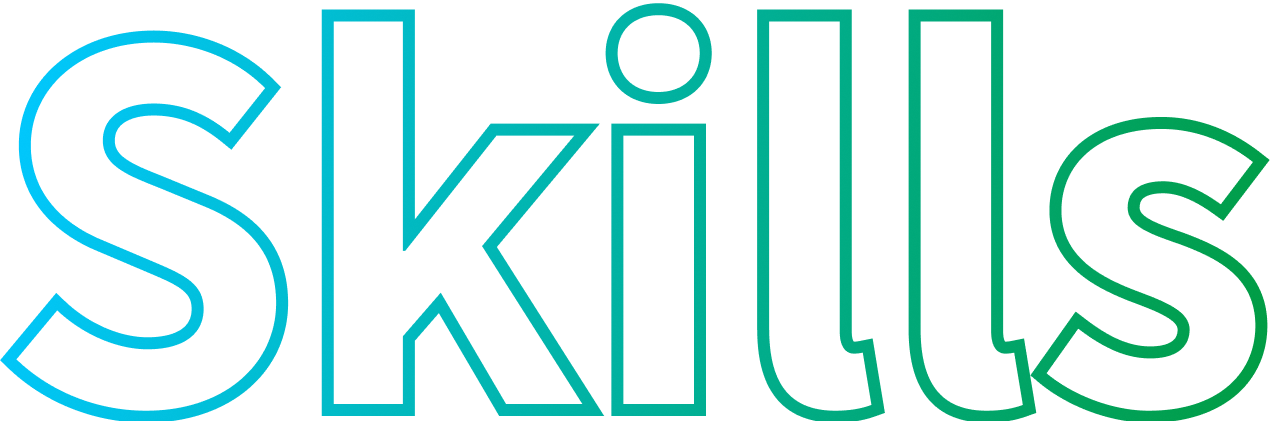
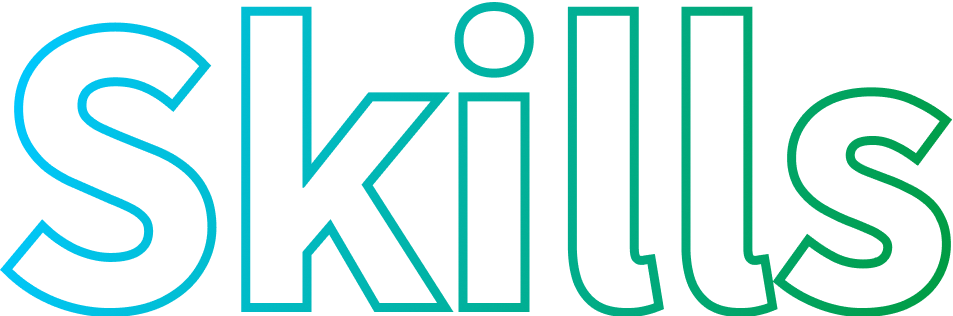
feat: responsive

diff --git a/pages/about.vue b/pages/about.vue
@@ -1,6 +1,7 @@
 <template>
     <div id="about">
-        <h1>About</h1>
+        <img src="/public/about.png" alt="" class="title">
+
         <div class="container">
             <div class="picture-container">
                 <div class="image-container">
@@ -24,28 +25,28 @@
 
 <style scoped>
 #about {
-    padding: 4vw 8vw;
-    margin-bottom: 16vw;
+    padding: 90px;
+    margin-bottom: 200px;
 
-    h1 {
-        font-size: 8vw;
-        color: transparent;
-        -webkit-text-stroke: 0.1vw #FFF;
+    .title {
+        height: 80px;
+        margin-bottom: 4vw;
     }
 
     .container {
         display: flex;
         flex-wrap: wrap;
         justify-content: space-around;
+        gap: 42px;
         
         .picture-container {
-            width: 20%;
+            width: 240px;
             position: relative;
             margin-top: 20px;
 
             .image-container {
-                width: 16vw;
-                height: 16vw;
+                width: 200px;
+                height: 200px;
                 transform: rotate(-10deg);
                 overflow: hidden;
                 border-radius: 24px;
@@ -74,10 +75,11 @@
                 content: "";
                 display: block;
                 transform: rotate(-85deg);
-                width: 16vw;
-                height: 16vw;
-                border:#ffffffac solid 0.2vw;
+                width: 200px;
+                height: 200px;
+                background: linear-gradient(45deg, rgba(255, 0, 255, 0.6), rgba(0, 255, 255, 0.6));
                 border-radius: 24px;
+                filter: blur(16px);
             }
 
             &::after {
@@ -86,26 +88,28 @@
                 content: "";
                 display: block;
                 transform: rotate(-70deg);
-                width: 16vw;
-                height: 16vw;
-                border:#ffffffac solid 0.2vw;
+                width: 200px;
+                height: 200px;
+                background: linear-gradient(45deg, rgba(0, 255, 255, 0.6), rgba(255, 0, 255, 0.6));
                 border-radius: 24px;
+                filter: blur(16px);
             }
         }
         
 
         .profile-container {
-            width: 55%;
+            width: 500px;
+
             h2 {
-                font-size: 4vw;
+                font-size: 40px;
                 margin-bottom: 2vw;
                 text-shadow: black;
             }
 
             p {
-                font-size: 1vw;
+                font-size: 12px;
                 font-weight: lighter;
-                line-height: 2vw;
+                line-height: 24px;
                 opacity: 0.8;
                 text-wrap: balance;
                 word-break: auto-phrase;
@@ -114,26 +118,10 @@
     }
 
     /* スマートフォンなどの小さな画面向け */
-    @media (max-width: 768px) {
-        padding: 8vw 4vw;
-
-        h1 {
-            font-size: 15vw;
-            -webkit-text-stroke: 0.2vw #FFF;
-        }
-
-        .profile-container {
-            h2 {
-                font-size: 8vw;
-                margin-bottom: 4vw;
-            }
-
-            p {
-                font-size: 4vw;
-                line-height: 5vw;
-                opacity: 0.8;
-            }
-        }
+    @media (max-width: 900px) {
+        .container {
+            justify-content: flex-start;
+        }        
     }
 }
 </style>

diff --git a/components/SkillJem.vue b/components/SkillJem.vue
@@ -31,7 +31,7 @@ defineProps({
     align-items: center;
     gap: 32px;
     margin-bottom: 32px;
-    width: 300px;
+    width: 280px;
 
     .text {
         display: flex;
@@ -51,8 +51,8 @@ defineProps({
 }
 
 .skill-image {
-    width: 6vw;
-    height: 6vw;
+    width: 80px;
+    height: 80px;
     border-radius: 50%;
     object-fit: cover;
 }

diff --git a/pages/skill.vue b/pages/skill.vue
@@ -16,10 +16,9 @@
 <style scoped>
 #skill {
     padding: 4vw 8vw;
-    
 
     .title {
-        width: 30%;
+        height: 80px;
         margin-bottom: 4vw;
     }
 
